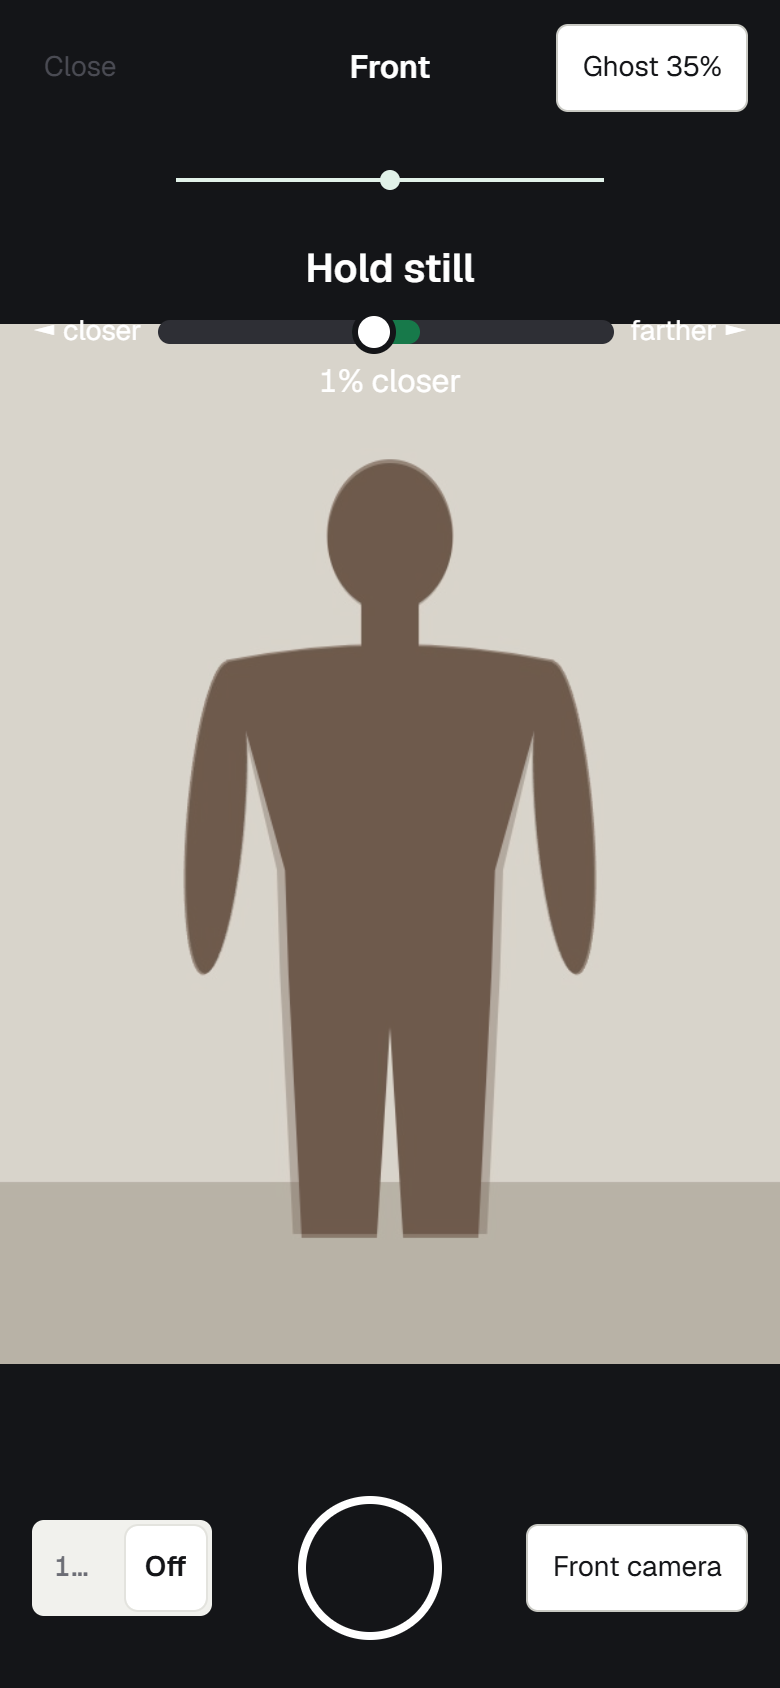
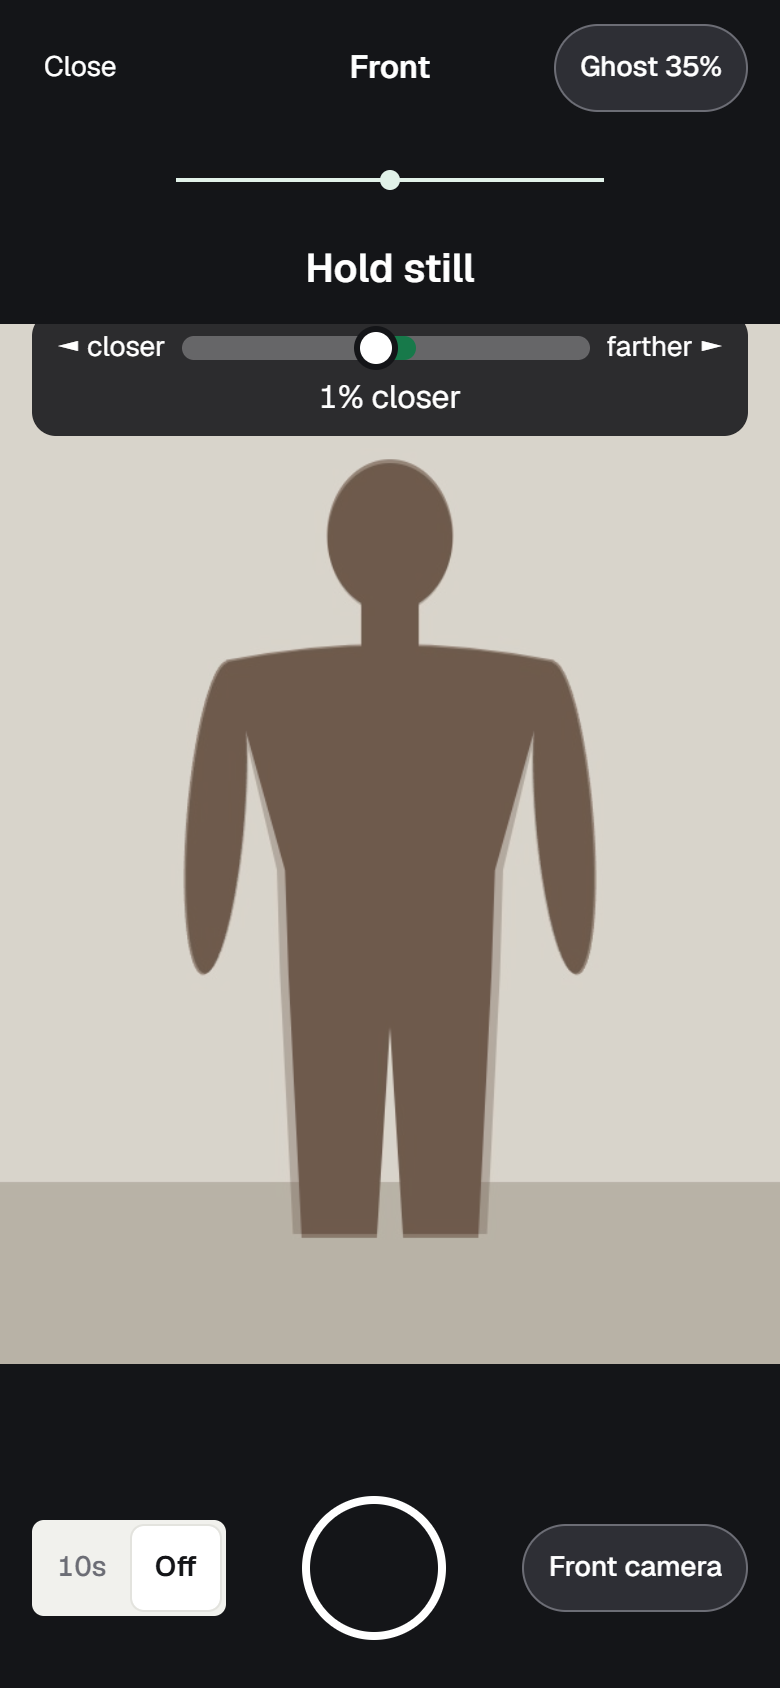
fix(photos): live capture ghost URL, timer fit, dark chrome contrast
- useObjectUrl makes the object URL in the effect that revokes it, so a
  StrictMode remount no longer revokes the ghost and "Next to match"
  thumbnail; tests cover StrictMode, source change and unmount. live.cjs
  drops its revokeObjectURL no-op workaround.
- Timer reads "10s" and its segments neither shrink nor go under 44 px,
  so it no longer truncates to "1..." at 390 px.
- Close is white on the dark header (was the light screens' grey).
- Ghost and camera switch are quiet dark chips with a grey outline
  instead of white pills, still 44 px and named.
- The distance bar sits on a dark scrim with a lighter track, readable
  over any photo.
- Shots and board re-rendered.

diff --git a/src/features/progress/photos/capture/PhotoCapture.css b/src/features/progress/photos/capture/PhotoCapture.css
@@ -223,6 +223,19 @@
   text-align: center;
 }
 
+/* The bar can sit over the photo's top edge: a dark scrim keeps it readable over any picture. */
+.photo-live .photo-distance {
+  box-sizing: border-box;
+  padding: var(--space-2) var(--space-3);
+  border-radius: var(--radius-lg);
+  background: color-mix(in srgb, var(--color-primary) 88%, transparent);
+  color: var(--color-on-primary);
+}
+
+.photo-live .photo-distance .photo-bar {
+  background: color-mix(in srgb, var(--color-on-primary) 28%, transparent);
+}
+
 .photo-distance-row {
   display: flex;
   align-items: center;
@@ -345,14 +358,49 @@
   color: var(--color-on-primary);
 }
 
-.photo-chip {
+/* Ghost and camera switch: quiet chips on the dark chrome, a dark fill with a grey outline (the
+   shared `.chip` is a white control for light screens, so this outranks it). */
+.photo-live .photo-chip {
   min-height: var(--tap-min);
+  min-width: var(--tap-min);
   padding: 0 var(--space-3);
-  border: 0;
+  border: 1px solid var(--color-muted);
   border-radius: var(--radius-pill);
   background: var(--color-primary-pressed);
   color: var(--color-on-primary);
   font-size: var(--text-sm);
+  font-weight: var(--weight-medium);
+}
+
+.photo-live .photo-chip:active {
+  background: var(--color-primary);
+  color: var(--color-on-primary);
+}
+
+.photo-live .photo-chip:disabled {
+  opacity: 0.4;
+}
+
+/* Close on the dark header: white, as the title (the light screens' secondary grey is 1.6:1). */
+.photo-live .photo-header-live .btn-quiet {
+  min-height: var(--tap-min);
+  color: var(--color-on-primary);
+}
+
+.photo-live .photo-header-live .btn-quiet:active {
+  background: var(--color-primary-pressed);
+  color: var(--color-on-primary);
+}
+
+/* The timer keeps its full "10s" at 390 px: it does not shrink, and each segment is at least
+   the tap floor wide. */
+.photo-live-controls .segmented {
+  flex: none;
+}
+
+.photo-live-controls .segmented-option {
+  flex: 1 0 auto;
+  min-width: var(--tap-min);
 }
 
 .photo-level {

diff --git a/src/features/progress/photos/capture/useObjectUrl.test.tsx b/src/features/progress/photos/capture/useObjectUrl.test.tsx
@@ -1,0 +1,51 @@
+import { renderHook } from '@testing-library/react'
+import { StrictMode } from 'react'
+import type { ReactNode } from 'react'
+import { afterEach, beforeEach, expect, test, vi } from 'vitest'
+import { useObjectUrl } from './useObjectUrl'
+
+// The reference ghost and the "Next to match" thumbnail read their bytes through this URL.
+
+let made = 0
+let revoked: Set<string>
+
+beforeEach(() => {
+  made = 0
+  revoked = new Set()
+  URL.createObjectURL = vi.fn(() => `blob:test-${++made}`)
+  URL.revokeObjectURL = vi.fn((url: string) => void revoked.add(url))
+})
+afterEach(() => {
+  vi.restoreAllMocks()
+})
+
+const strict = ({ children }: { children: ReactNode }): JSX.Element => <StrictMode>{children}</StrictMode>
+
+test('the URL a StrictMode mount ends with is still live (development runs effects twice)', () => {
+  const blob = new Blob(['x'], { type: 'image/jpeg' })
+  const { result } = renderHook(() => useObjectUrl(blob), { wrapper: strict })
+  expect(result.current).not.toBeNull()
+  expect(revoked.has(result.current as string)).toBe(false)
+})
+
+test('the URL is revoked when the source changes and when the caller unmounts', () => {
+  const first = new Blob(['a'])
+  const second = new Blob(['b'])
+  const { result, rerender, unmount } = renderHook(({ source }) => useObjectUrl(source), {
+    initialProps: { source: first as Blob | null },
+  })
+  const one = result.current as string
+  rerender({ source: second })
+  const two = result.current as string
+  expect(two).not.toBe(one)
+  expect(revoked.has(one)).toBe(true)
+  expect(revoked.has(two)).toBe(false)
+  unmount()
+  expect(revoked.has(two)).toBe(true)
+})
+
+test('no source, no URL', () => {
+  const { result } = renderHook(() => useObjectUrl(null))
+  expect(result.current).toBeNull()
+  expect(URL.createObjectURL).not.toHaveBeenCalled()
+})

diff --git a/src/features/progress/photos/capture/useObjectUrl.ts b/src/features/progress/photos/capture/useObjectUrl.ts
@@ -1,16 +1,23 @@
-import { useEffect, useMemo } from 'react'
+import { useEffect, useState } from 'react'
 
-/** An object URL for `source` while it is mounted; none where the browser has no such thing. */
+/**
+ * An object URL for `source` while it is mounted (null until it exists, and where the browser has
+ * no such thing), revoked when the source changes or the caller unmounts. Made in the effect that
+ * revokes it, as `useImageUrl` in `photoFrame.ts` does, so a remount (StrictMode runs every effect
+ * twice in development) never leaves an image pointing at a revoked URL.
+ */
 export function useObjectUrl(source: Blob | null): string | null {
-  const url = useMemo(
-    () => (source && typeof URL.createObjectURL === 'function' ? URL.createObjectURL(source) : null),
-    [source],
-  )
-  useEffect(
-    () => () => {
-      if (url && typeof URL.revokeObjectURL === 'function') URL.revokeObjectURL(url)
-    },
-    [url],
-  )
+  const [url, setUrl] = useState<string | null>(null)
+  useEffect(() => {
+    if (!source || typeof URL.createObjectURL !== 'function') {
+      setUrl(null)
+      return
+    }
+    const made = URL.createObjectURL(source)
+    setUrl(made)
+    return () => {
+      if (typeof URL.revokeObjectURL === 'function') URL.revokeObjectURL(made)
+    }
+  }, [source])
   return url
 }

diff --git a/docs/design/photos-2026-11/v2/example/board.html b/docs/design/photos-2026-11/v2/example/board.html
@@ -116,7 +116,7 @@ hr { border: 0; border-top: 1px solid var(--line); margin-top: 34px; }
       <div>
         <div class="step"><span class="dot" style="background: var(--up)"></span>Take it</div>
         <h3 style="color: var(--up)">Matched</h3>
-        <p>Everything is green and the 6 Oct photo's ghost (35%) sits on you. One high tone, so you know with the screen facing away. Use the 10 s timer.</p>
+        <p>Everything is green and the 6 Oct photo's ghost (35%) sits on you. One high tone, so you know with the screen facing away. Use the 10s timer.</p>
         <ul class="chk">
           <li class="ok" data-m="✓">Level</li>
           <li class="ok" data-m="✓">Same distance</li>

diff --git a/src/features/progress/photos/capture/PhotoCapture.test.tsx b/src/features/progress/photos/capture/PhotoCapture.test.tsx
@@ -180,7 +180,7 @@ describe('E26-T7 O3 the live camera, when it works', () => {
     setup({ openCamera: async () => live })
     fireEvent.click(screen.getByRole('button', { name: 'Take photo' }))
     await screen.findByRole('button', { name: 'Shutter' })
-    fireEvent.click(screen.getByRole('radio', { name: '10 s' }))
+    fireEvent.click(screen.getByRole('radio', { name: '10s' }))
     fireEvent.click(screen.getByRole('button', { name: 'Shutter' }))
     expect(await screen.findByText('10')).toBeVisible()
     expect(live.grab).not.toHaveBeenCalled()

diff --git a/src/features/progress/photos/capture/LiveView.tsx b/src/features/progress/photos/capture/LiveView.tsx
@@ -420,7 +420,7 @@ export function LiveView({
           label="Timer"
           value={timer}
           options={[
-            { value: '10', label: '10 s' },
+            { value: '10', label: '10s' },
             { value: 'off', label: 'Off' },
           ]}
           onChange={setTimer}
